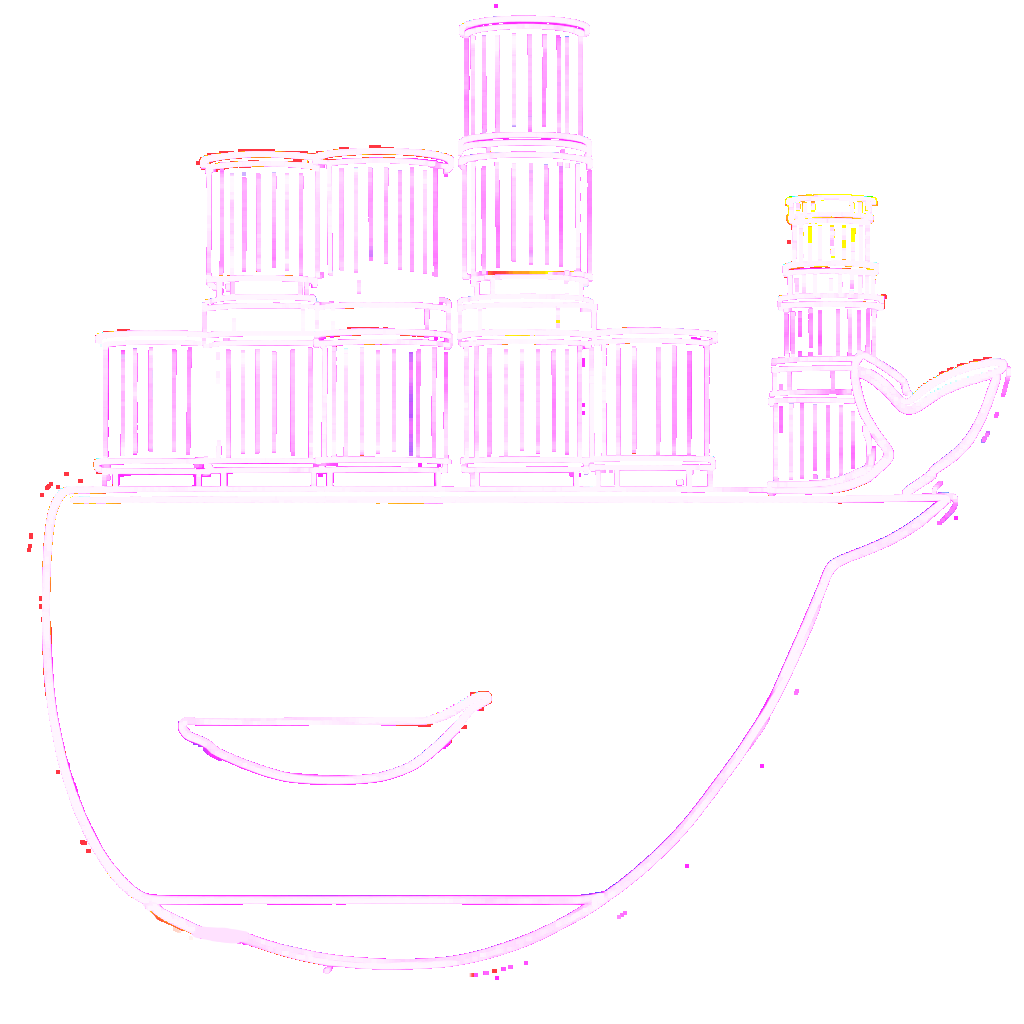
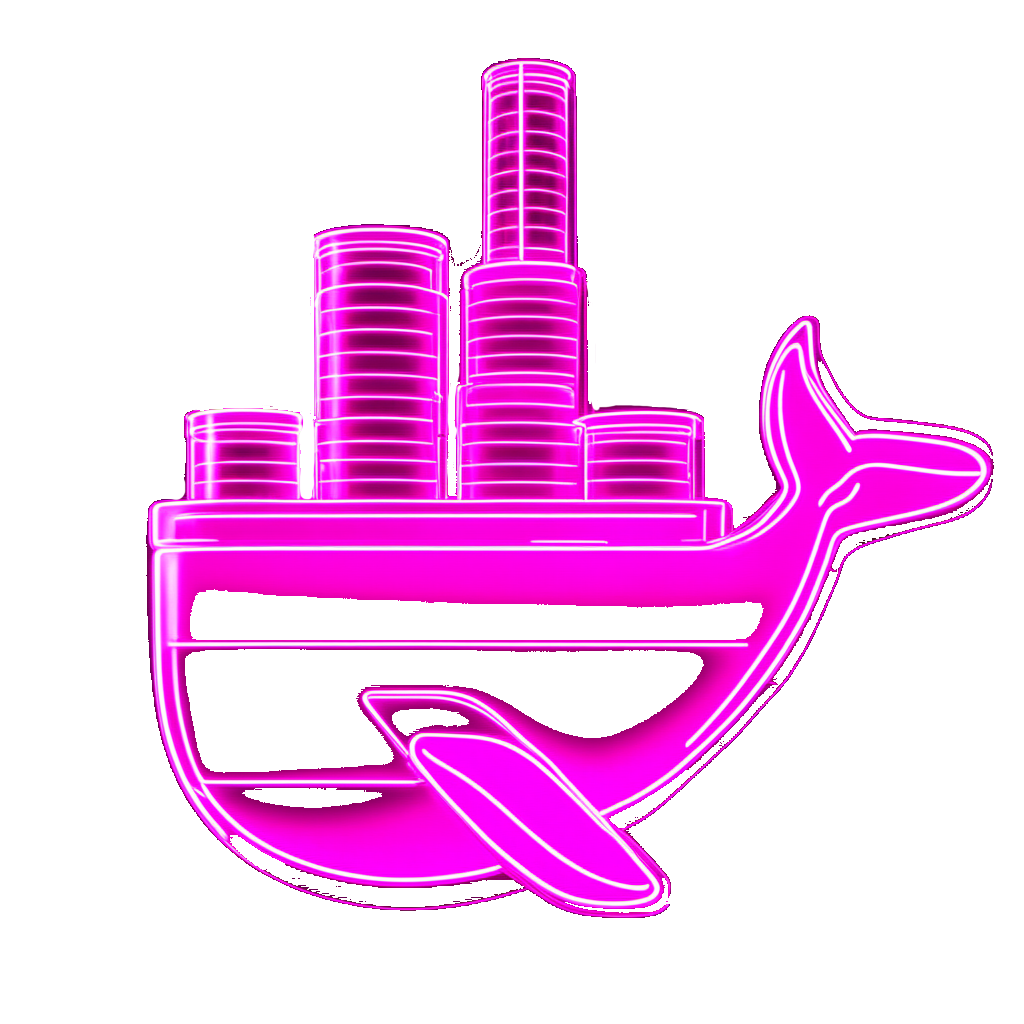
finished prototype art for service section

diff --git a/apps/website/src/routes/serviceChapters.ts b/apps/website/src/routes/serviceChapters.ts
@@ -12,7 +12,7 @@ export const servicesChapters: {
 		chapterNumber: 1,
 		inView: false,
 		title: 'AI-Powered Design',
-		image: '/artwork/sdxl_1.png',
+		image: '/artwork/design_2.png',
 		id: 'design',
 		body: `Futino merges AI innovation with human creativity to deliver captivating web experiences. By optimizing workflows and harnessing AI-driven tools, we create stunning websites in a fraction of the time.`,
 	},
@@ -20,14 +20,14 @@ export const servicesChapters: {
 		chapterNumber: 2,
 		inView: false,
 		title: 'Coding with Intuition',
-		image: '/artwork/develop_illustration.png',
+		image: '/artwork/develop_1.png',
 		id: 'develop',
 		body: `We blend cutting-edge frameworks, modern languages, and AI for unparalleled systems. Our efficient, precise approach allows us to craft highly functional yet creative websites.`,
 	},
 	{
 		chapterNumber: 3,
 		inView: false,
-		image: '/artwork/server_3.png',
+		image: '/artwork/server_4.png',
 		title: 'Modern Hosting',
 		id: 'host',
 		body: `Experience Futino's sleek web hosting process that effortlessly manages all technical aspects. This enables you to prioritize your core business knowing that your website rests in capable hands.`,

diff --git a/apps/website/src/routes/pricing/TierListing.svelte b/apps/website/src/routes/pricing/TierListing.svelte
@@ -9,7 +9,10 @@
 </script>
 
 <div class="flex flex-col place-items-start gap-2 text-left">
-	<img src={tier.thumbnail} alt="" class="object-cover object-center w-1/2 h-fit -mb-5" />
+	<img
+		src={tier.thumbnail}
+		alt=""
+		class="object-cover object-center w-1/2 h-fit -mb-5 drop-shadow-pricing-art" />
 	<div class="">
 		<h2 class="display-small font-extrabold">
 			{tier.name}

diff --git a/apps/website/src/routes/+page.svelte b/apps/website/src/routes/+page.svelte
@@ -203,7 +203,7 @@
 						<img
 							src={image}
 							alt=""
-							class="order-last object-cover object-center w-1/2 mx-auto bg-no-repeat sm:w-full sm:order-first drop-shadow-glow-2xl-dark" />
+							class="order-last object-cover object-center w-1/2 mx-auto bg-no-repeat sm:w-full sm:order-first drop-shadow-service-art" />
 					</InView>
 
 					<div

diff --git a/apps/website/src/routes/pricing/+page.svelte b/apps/website/src/routes/pricing/+page.svelte
@@ -50,7 +50,7 @@
 						<img
 							src={thumbnail}
 							alt=""
-							class="object-fit object-center drop-shadow-object h-1/2 w-1/2" />
+							class="object-fit object-center drop-shadow-pricing-art h-1/2 w-1/2" />
 						<div class="">
 							<h2 class=" headline-large uppercase text-primary-dark font-extrabold">
 								{name}
